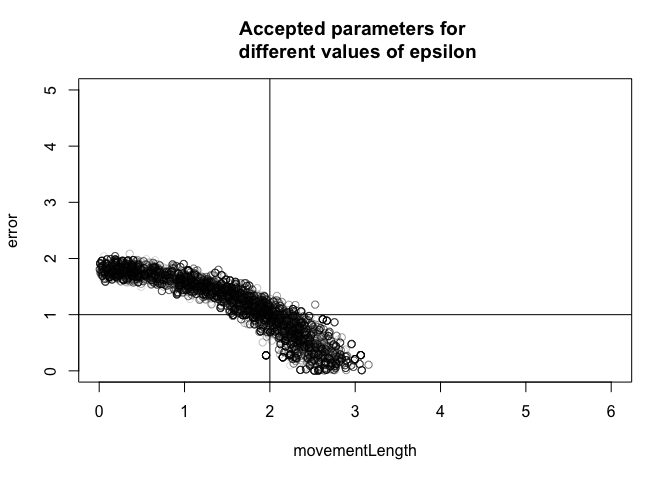
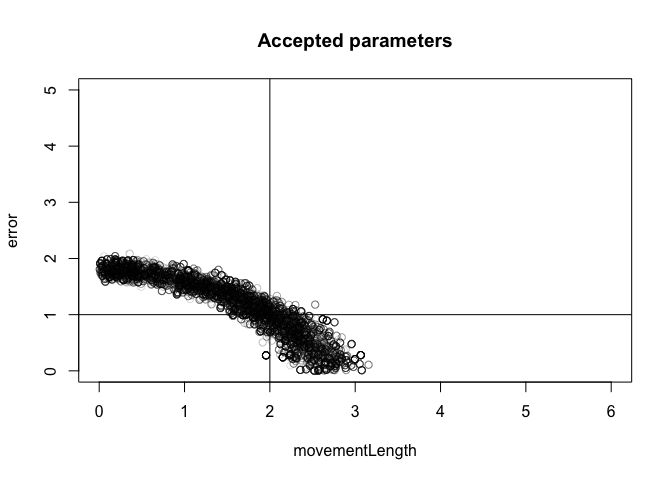
updates ABC

Changed region(s): [[0.3438, 0.0312, 0.7188, 0.125]]

diff --git a/CommentedCode/08-ApproximateBayesian/ABC-MovementModel-RecAndMCMC.md b/CommentedCode/08-ApproximateBayesian/ABC-MovementModel-RecAndMCMC.md
@@ -161,11 +161,15 @@ for (i in 1:n){
 
 
 ```r
-plot(fit[, 1:2], xlim = c(0,6), ylim = c(0,5), col = "#00000022", main = "Accepted parameters for \n different values of epsilon")
+plot(fit[, 1:2], xlim = c(0,6), ylim = c(0,5), col = "#00000022", main = "Accepted parameters")
 
 abline(v = 2)
 abline(h = 1) 
 ```
 
 ![](ABC-MovementModel-RecAndMCMC_files/figure-html/unnamed-chunk-9-1.png) 
+
+
+---
+**Copyright, reuse and updates**: By Florian Hartig. Updates will be posted at https://github.com/florianhartig/LearningBayes. Reuse permitted under Creative Commons Attribution-NonCommercial-ShareAlike 4.0 International License
 
